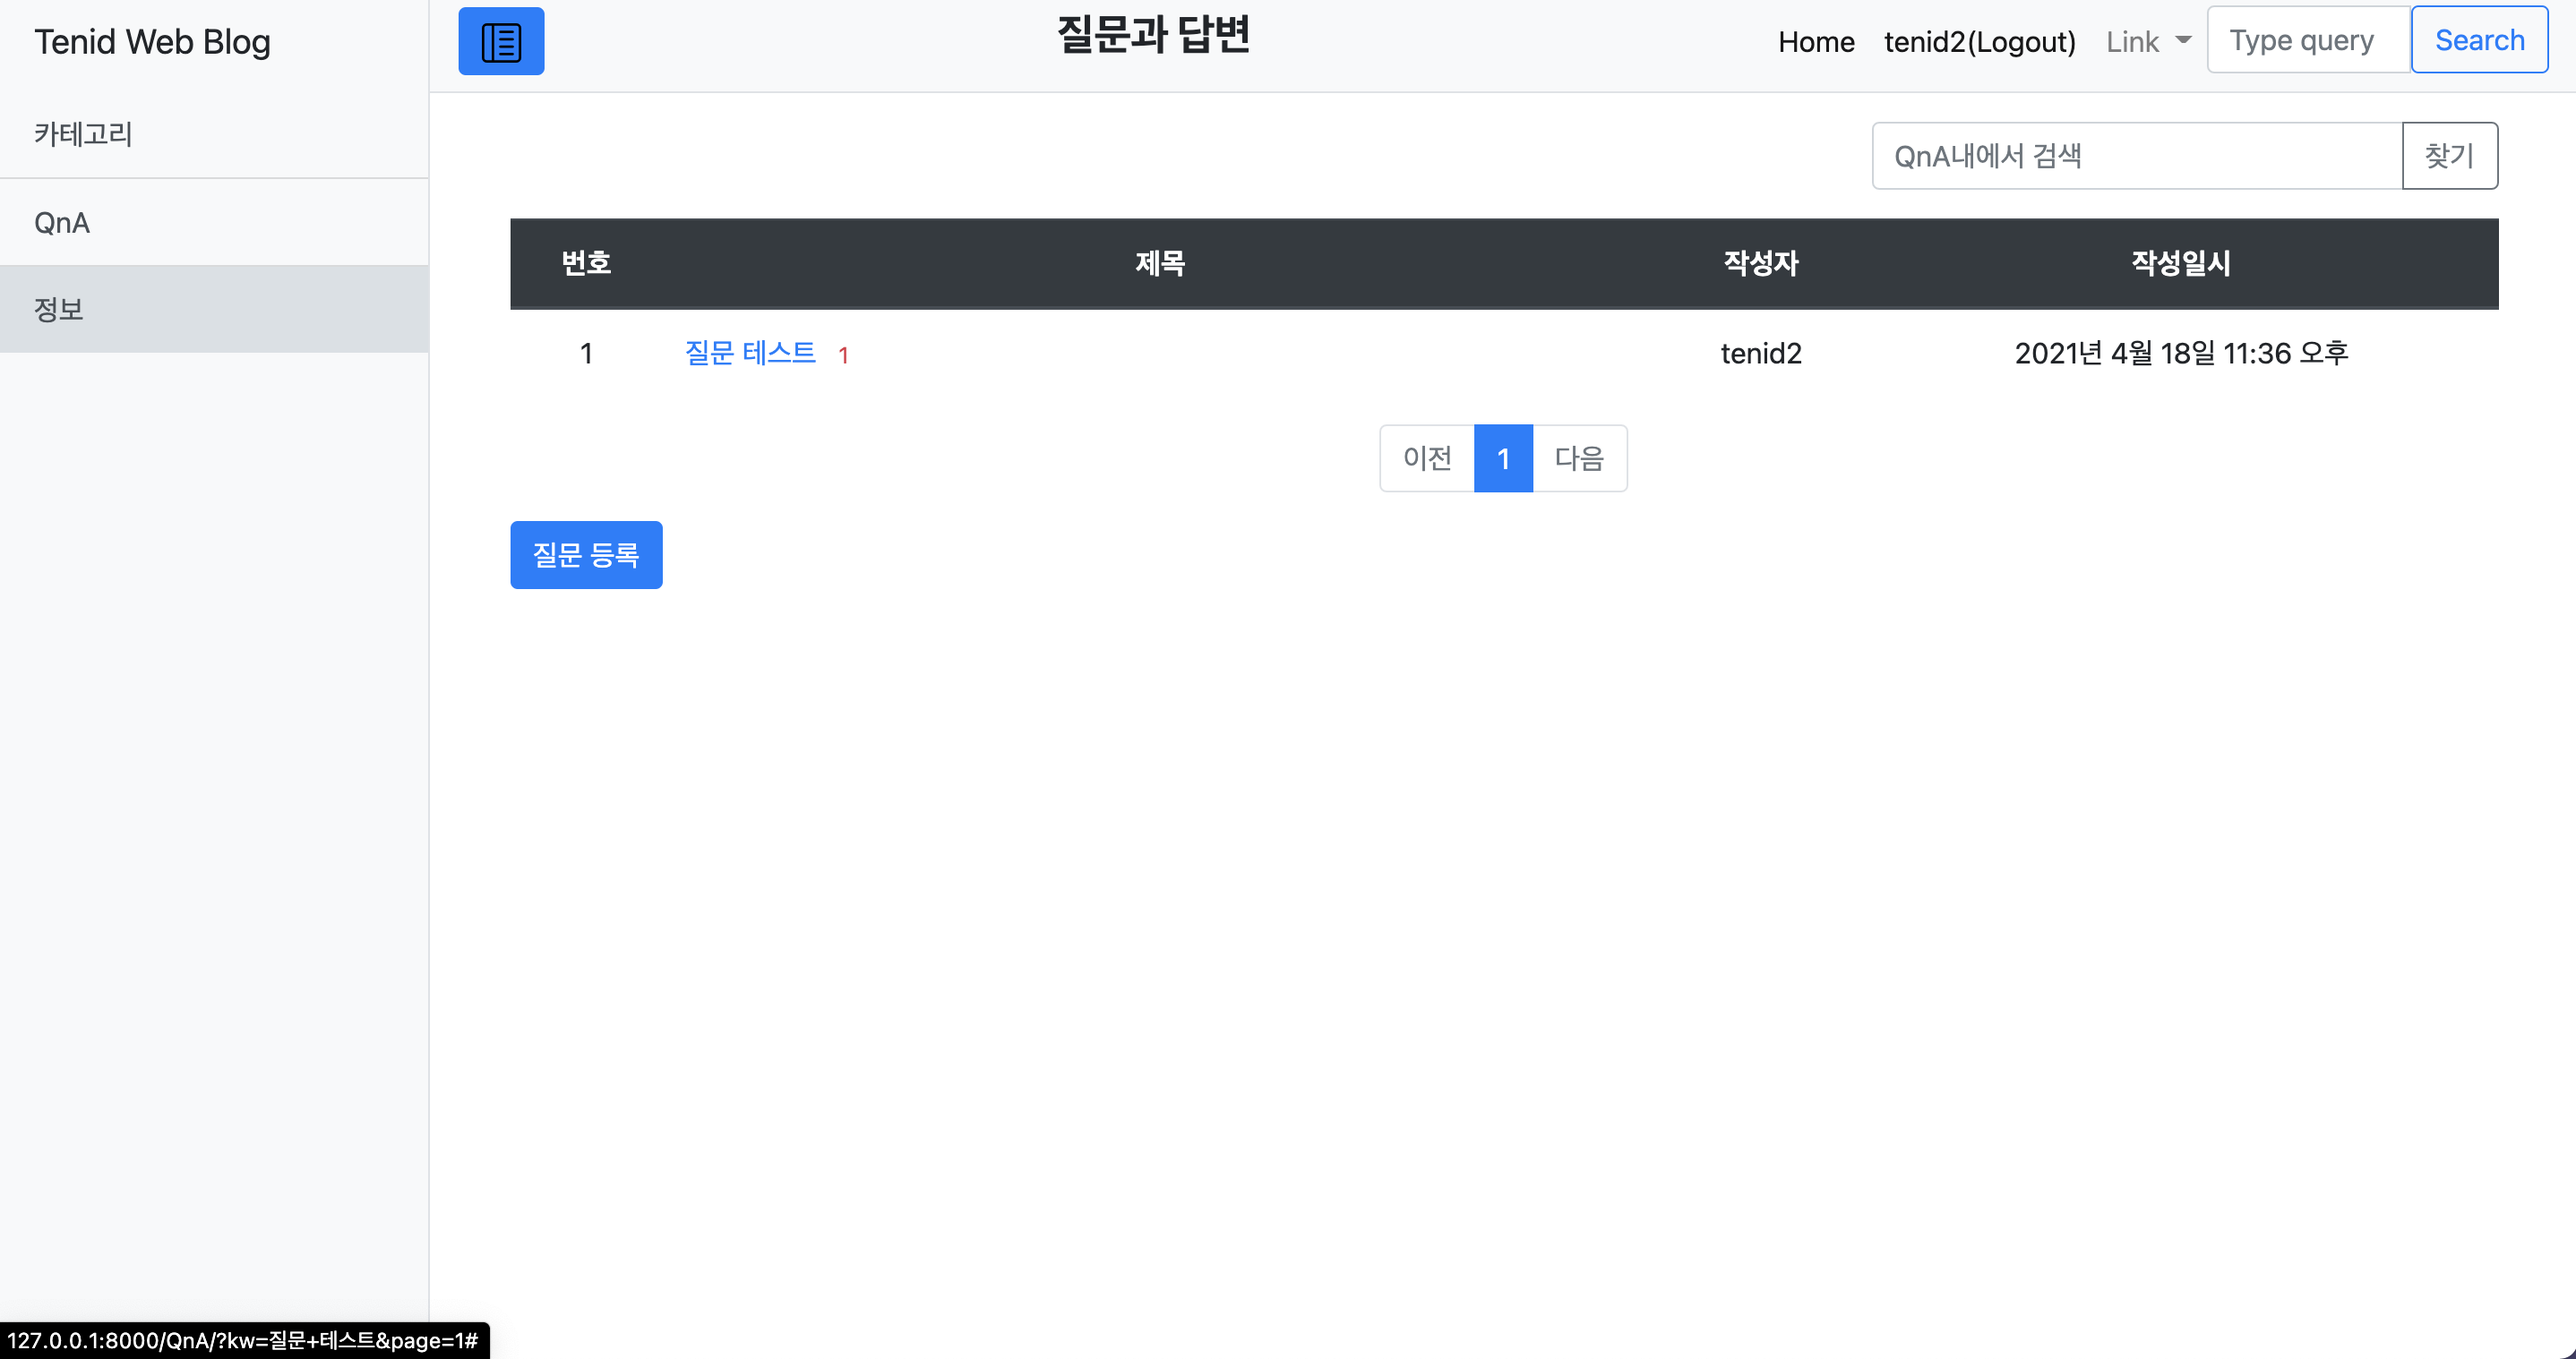
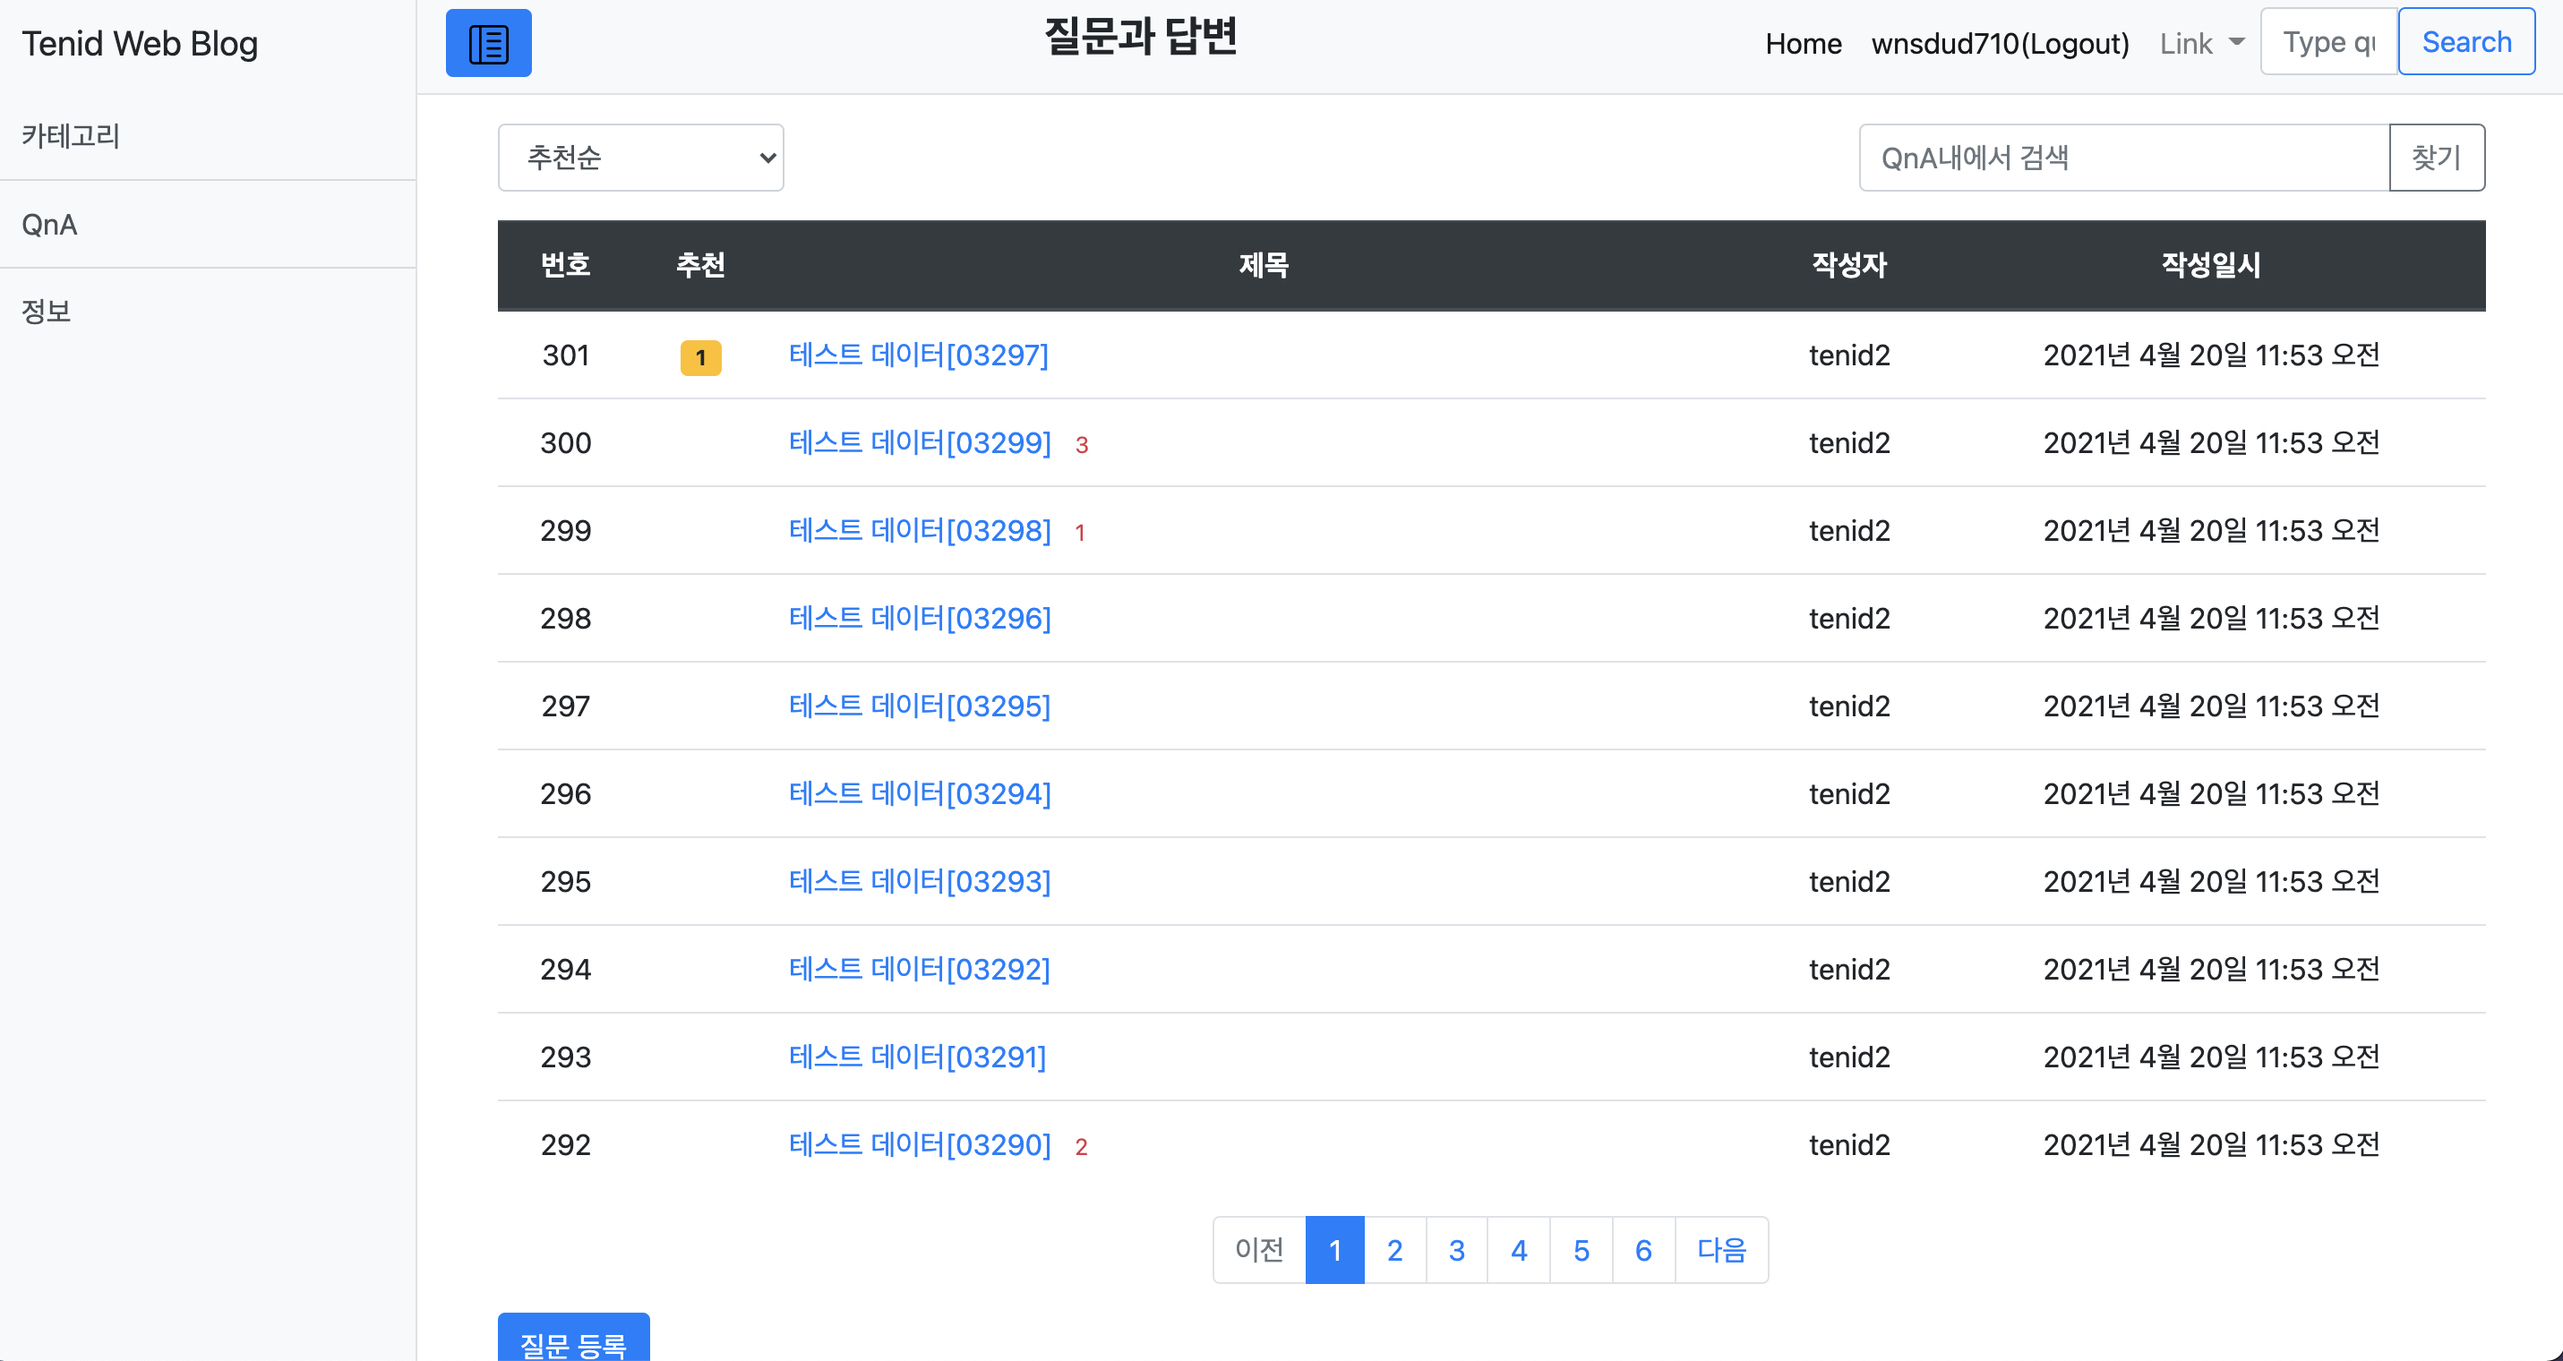
Add function: show recommend count Change docs: QnA_index.png

diff --git a/QnA/templates/QnA/index.html b/QnA/templates/QnA/index.html
@@ -37,6 +37,7 @@
             <thead>
             <tr class="text-center thead-dark">
                 <th>번호</th>
+                <th>추천</th>
                 <th style="width: 50%">제목</th>
                 <th>작성자</th>
                 <th>작성일시</th>
@@ -48,6 +49,11 @@
                     <tr class="text-center">
                         <!-- 번호 = 전체 건수 - 시작인덱스 - 현재인덱스 +1 -->
                         <td>{{ paginator.count | sub:page_obj.start_index|sub:forloop.counter0|add:1 }}</td>
+                        <td>
+                            {% if question.voter.all.count > 0 %}
+                                <span class="badge badge-warning px-2 py-1">{{ question.voter.all.count }}</span>
+                            {% endif %}
+                        </td>
                         <td class="text-left">
                             <a href="{% url 'QnA:detail' question.id %}">{{ question.subject }}</a>
                             {% if question.answer_set.count > 0 %}
